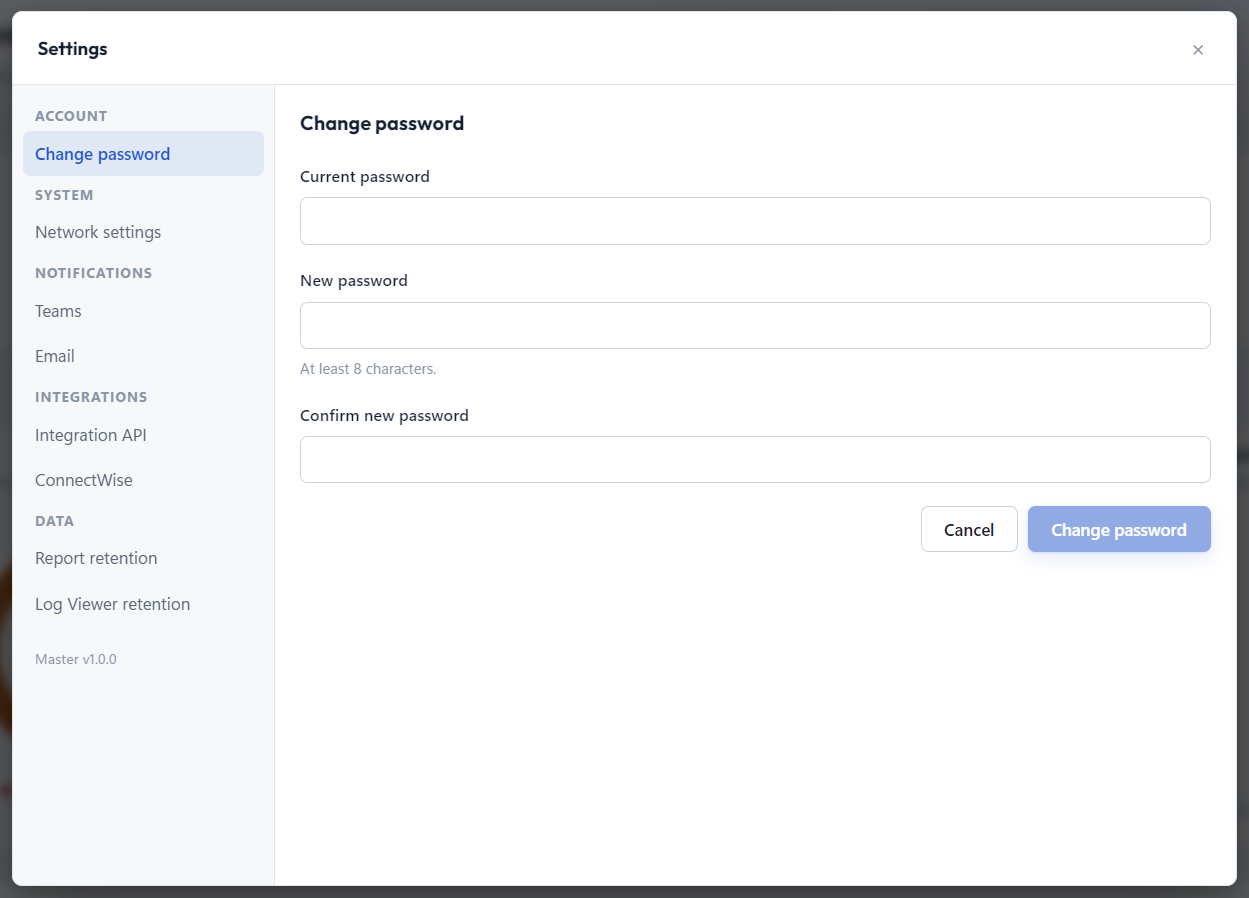
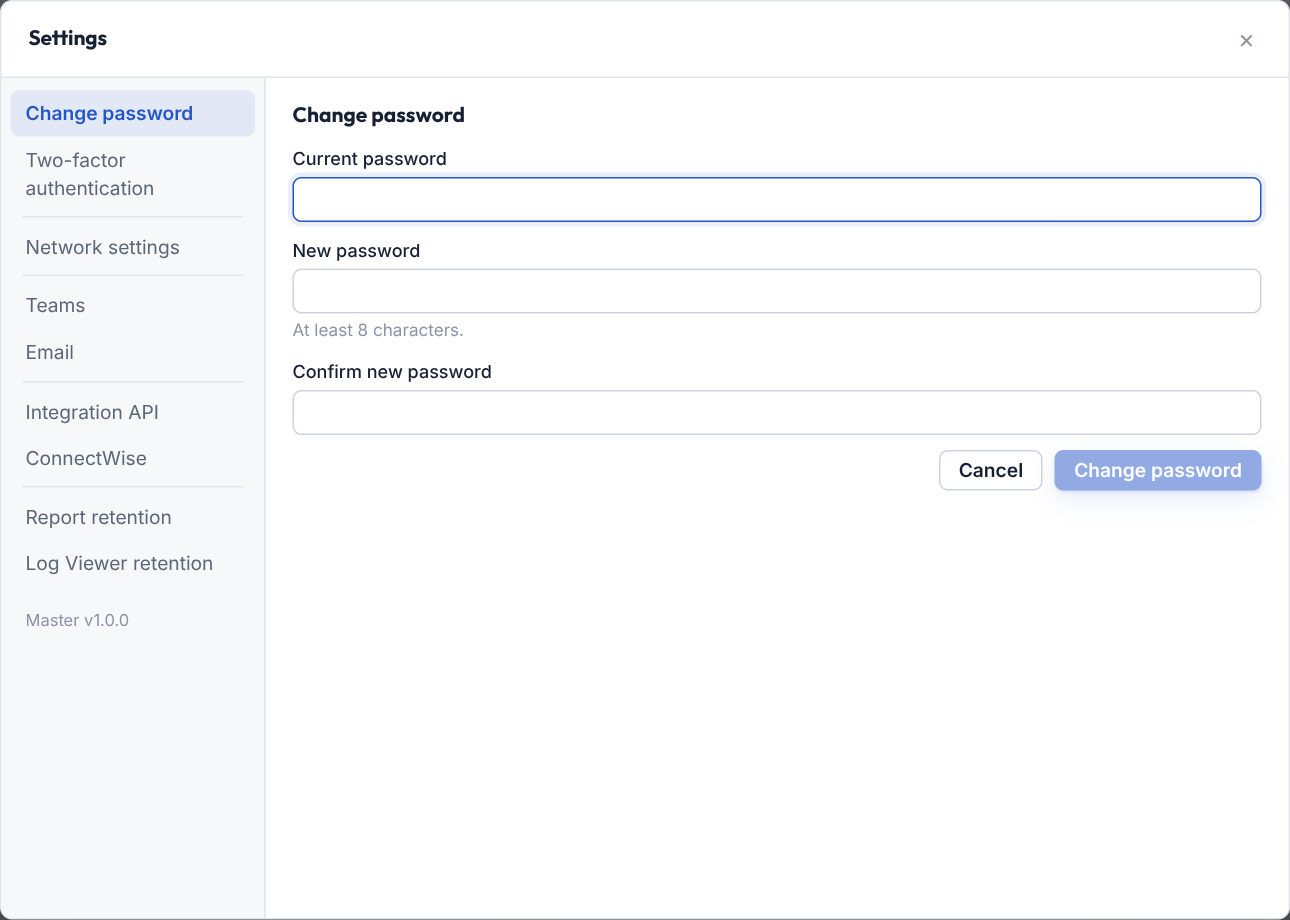
Add UI and report screenshots to the README

Changed region(s): [[0.0, 0.0, 1.0, 1.0]]

diff --git a/README.md b/README.md
@@ -11,6 +11,8 @@ EMCONMSP lets an MSP watch the health of every customer's VMware environment fro
 
 > This repository only holds documentation. The product is delivered as OVA appliances.
 
+![EMCONMSP Master dashboard](docs/images/master-dashboard.png)
+
 ---
 
 ## How it fits together
@@ -59,6 +61,8 @@ EMCONMSP lets an MSP watch the health of every customer's VMware environment fro
 3. Power on the VM and open `https://<master-address>` in a browser.
 4. Sign in. You are required to change the initial password before you can continue.
 
+<p align="center"><img src="docs/images/master-login.jpg" alt="Master sign-in" width="420"></p>
+
 ### 2. Deploy a Connector for each customer
 
 1. Deploy the **EMCONMSP Connector** OVA next to the customer's vCenter, with the same network fields as above.
@@ -66,11 +70,15 @@ EMCONMSP lets an MSP watch the health of every customer's VMware environment fro
 3. Activate the Connector with a one-time code from the Master (see below).
 4. Add the customer's vCenter.
 
+<p align="center"><img src="docs/images/connector-login.jpg" alt="Connector sign-in" width="420"></p>
+
 ---
 
 ## Using the Master
 
 ### Customers
+
+![Customers](docs/images/master-customers.png)
 
 **Customers > New customer** creates the customer record.
 
@@ -78,7 +86,9 @@ EMCONMSP lets an MSP watch the health of every customer's VMware environment fro
 - Optionally add the customer's email addresses and tick *send reports to this customer* so every new report is emailed to them as a PDF.
 - If ConnectWise is connected, you can pick the customer's company from a list instead of typing it.
 
-Open the customer to see its connectors, vCenters, latest reports, topology, health score and report history. **Generate code** (or **Re-issue code**) creates the one-time activation code you enter on the Connector. **Request report** asks a Connector to send a fresh report right away.
+Open the customer to see its connectors, vCenters, latest reports, topology, health score and report history. **Generate code** (or **Re-issue code**) creates the one-time activation code you enter on the Connector. **Request report** asks a Connector to send a fresh report right away. The header also shows at a glance whether report emails are on for the customer.
+
+![Customer detail](docs/images/master-customer-detail.png)
 
 ### Reports
 
@@ -88,6 +98,20 @@ Each report is a snapshot of one vCenter. A report contains:
 - **Inventory report** with hosts, clusters, networks, datastores, storage adapters, redundancy checks, licenses and certificates.
 - **VM health** with snapshots, VMware Tools, hot-add settings, outdated virtual hardware, zombie VMDKs and more.
 - **Trends** to compare the latest reports of a vCenter.
+
+![Report overview](docs/images/master-report-overview.png)
+
+Recommendations explain what is wrong and which objects are affected:
+
+![Recommendations](docs/images/master-recommendations.png)
+
+The inventory tab lists everything the Connector collected, with a short explanation under every section title:
+
+![Inventory report](docs/images/master-inventory.png)
+
+![Datastores](docs/images/master-datastores.png)
+
+![VM health](docs/images/master-vm-health.png)
 
 From a report you can download a **PDF** (the same file customers receive by email), the raw **JSON**, or an **Excel** inventory export.
 
@@ -105,6 +129,8 @@ From a report you can download a **PDF** (the same file customers receive by ema
 
 **Customer > Log Viewer** shows vCenter tasks and events collected every 15 minutes, with search, time ranges, state filters and an expandable row for details. Errors are highlighted.
 
+![Log viewer](docs/images/master-log-viewer.png)
+
 ### Fleet pages
 
 | Page | Purpose |
@@ -116,6 +142,10 @@ From a report you can download a **PDF** (the same file customers receive by ema
 | **vCenters** | Every monitored vCenter and whether it is in sync. Click a row for details. |
 | **Licenses** | Licenses per vCenter, most urgent first. Click a vCenter to see its licenses. |
 | **ConnectWise** | Read-only comparison of customer contracts against what is actually monitored. |
+
+![vCenters](docs/images/master-vcenters.png)
+
+![Licenses](docs/images/master-licenses.png)
 
 ### Settings
 
@@ -156,6 +186,8 @@ The ConnectWise integration only reads. Nothing is ever written back. Use an API
 ### Handy extras in the header
 
 - **Search box**: type to find customers, connectors, vCenters, reports and vCenter logs. Click it while empty for quick actions and page shortcuts. Use the arrow keys and Enter.
+
+![Quick actions](docs/images/master-search.png)
 - **Camera icon**: save a screenshot of the full screen or of a selected area as a PNG.
 - **Theme toggle** for light and dark mode.
 
@@ -171,11 +203,15 @@ The Connector has a small local web interface, reachable at its own address.
 2. On the first screen, enter the **Master server URL** and the **activation code** you generated on the customer page of the Master.
 3. The Connector shows *Active* and starts reporting.
 
+![Connector overview](docs/images/connector-overview.png)
+
 ### Add a vCenter
 
 Use **Add vCenter** and fill in the vCenter address, a service account and the role it holds. **Test connection** and **Save** both check that the account can really sign in and has the privileges the Connector needs, so mistakes are caught immediately.
 
 The service account only needs read access plus a few extra privileges. A **What role is needed?** button on the form lists the exact steps.
+
+<p align="center"><img src="docs/images/connector-add-vcenter.png" alt="Add vCenter" width="520"> <img src="docs/images/connector-role-help.png" alt="vCenter role help" width="520"></p>
 
 | Privilege | Used for |
 | --- | --- |
@@ -193,6 +229,8 @@ The overview shows the Connector state, the last and next synchronization, and e
 ### Settings
 
 The gear icon in the header offers **Change password**, **Network settings** (IP, DNS, NTP) and **Delete all reports**, which sends a deletion request that a super admin on the Master must approve.
+
+<p align="center"><img src="docs/images/connector-settings-menu.png" alt="Connector settings menu" width="420"></p>
 
 Sessions end after 15 minutes without activity.
 
